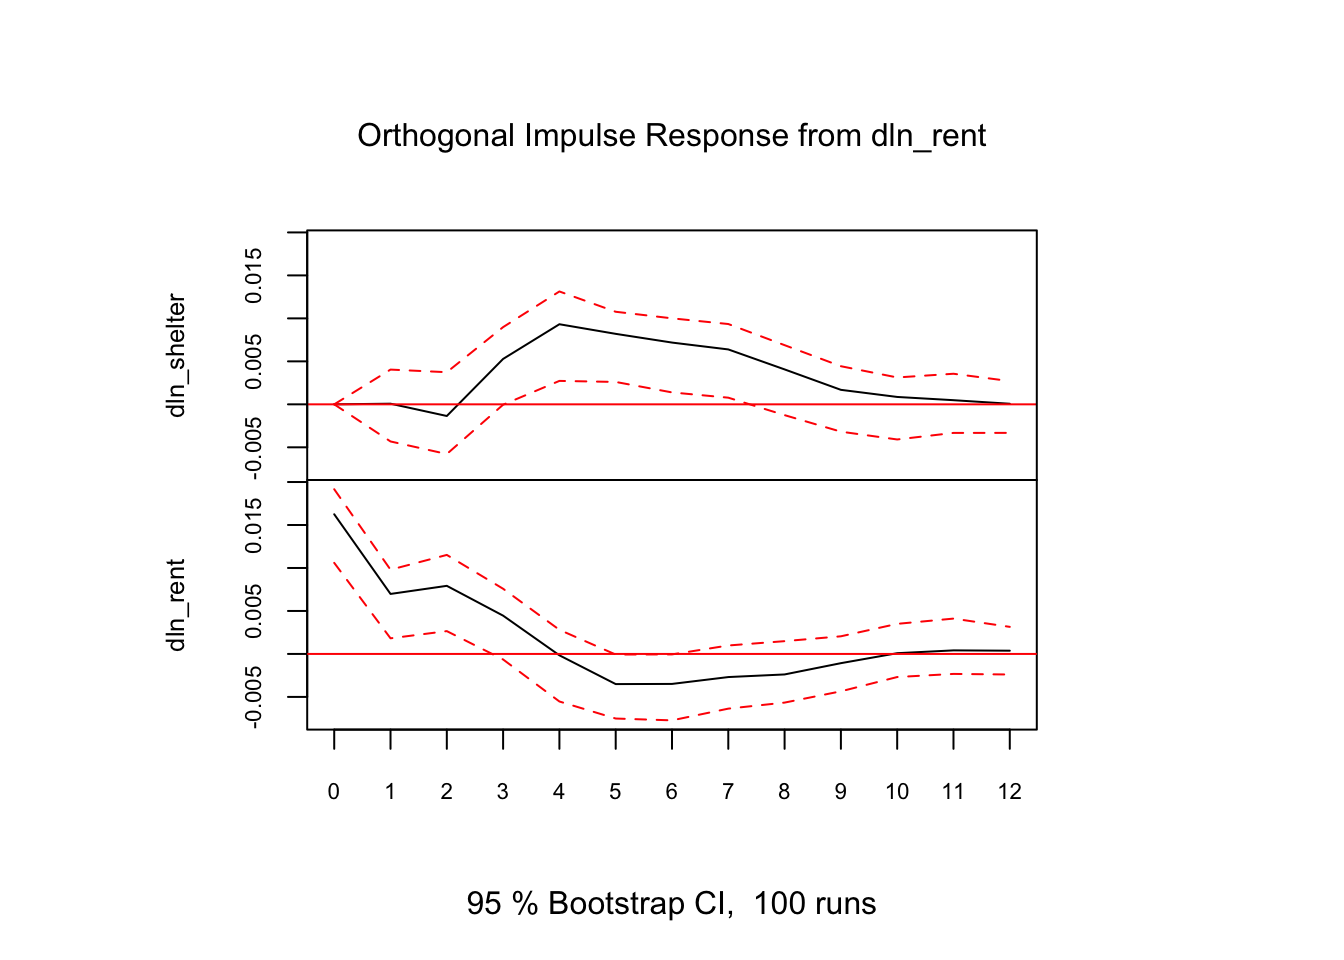
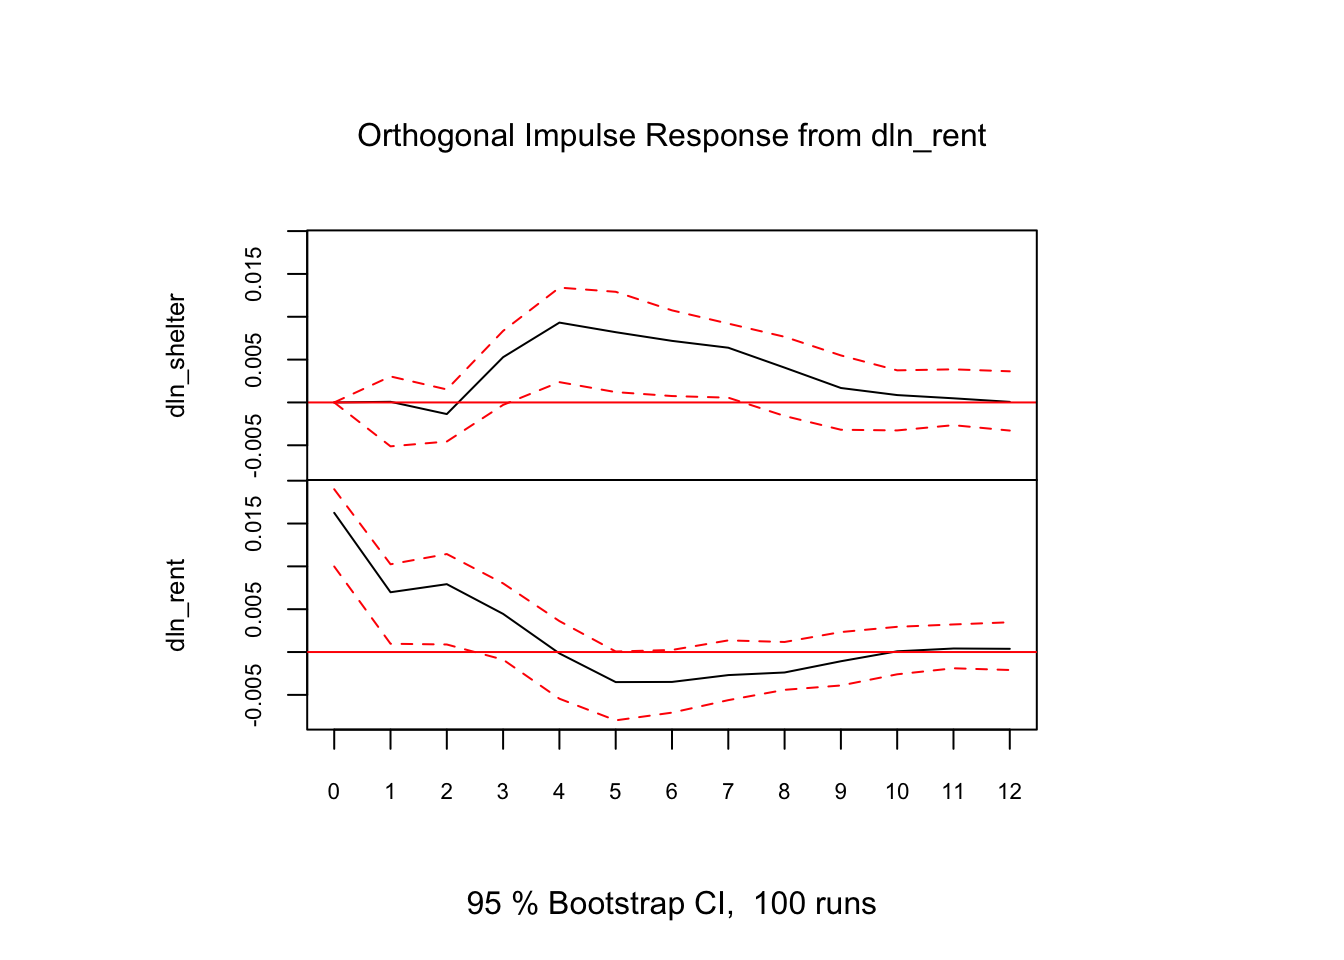
updates final

diff --git a/docs/projects/Refugees_EU.html b/docs/projects/Refugees_EU.html
@@ -700,8 +700,8 @@ Figure&nbsp;1
 
     <script>
 
-      function styleCell_rncptukpirzeetu41rbu(i, j, css_id) {
-          var table = document.getElementById("tinytable_rncptukpirzeetu41rbu");
+      function styleCell_ql58ar1mx5f0ps8pwl12(i, j, css_id) {
+          var table = document.getElementById("tinytable_ql58ar1mx5f0ps8pwl12");
           var cell = table.querySelector(`[data-row="${i}"][data-col="${j}"]`);
           if (cell) {
               console.log(`Styling cell at (${i}, ${j}) with class ${css_id}`);
@@ -710,8 +710,8 @@ Figure&nbsp;1
               console.warn(`Cell at (${i}, ${j}) not found.`);
           }
       }
-      function spanCell_rncptukpirzeetu41rbu(i, j, rowspan, colspan) {
-        var table = document.getElementById("tinytable_rncptukpirzeetu41rbu");
+      function spanCell_ql58ar1mx5f0ps8pwl12(i, j, rowspan, colspan) {
+        var table = document.getElementById("tinytable_ql58ar1mx5f0ps8pwl12");
         const targetCell = table.querySelector(`[data-row="${i}"][data-col="${j}"]`);
         if (!targetCell) {
           console.warn(`Cell at (${i}, ${j}) not found.`);
@@ -742,20 +742,20 @@ Figure&nbsp;1
       window.addEventListener('load', function () {
           var cellsToStyle = [
             // tinytable style arrays after
-          { positions: [ { i: '9', j: 1 }, { i: '9', j: 2 },  ], css_id: 'tinytable_css_v0vmxwu4i3xxz8ekekdn',}, 
-          { positions: [ { i: '6', j: 2 }, { i: '6', j: 1 },  ], css_id: 'tinytable_css_zprc3wvhz01k43tq2fd5',}, 
-          { positions: [ { i: '1', j: 1 }, { i: '3', j: 1 }, { i: '4', j: 1 }, { i: '5', j: 1 }, { i: '2', j: 1 }, { i: '7', j: 1 }, { i: '8', j: 1 }, { i: '3', j: 2 }, { i: '4', j: 2 }, { i: '1', j: 2 }, { i: '2', j: 2 }, { i: '7', j: 2 }, { i: '8', j: 2 }, { i: '5', j: 2 },  ], css_id: 'tinytable_css_kr6yfmrb4j38mwqssyhp',}, 
-          { positions: [ { i: '0', j: 1 }, { i: '0', j: 2 },  ], css_id: 'tinytable_css_i2psnrf6deqhmmdkt6bw',}, 
-          { positions: [ { i: '9', j: 0 },  ], css_id: 'tinytable_css_a5hgd34dq90ipjwg8a5z',}, 
-          { positions: [ { i: '6', j: 0 },  ], css_id: 'tinytable_css_u4zx0ooemd39qoufx86i',}, 
-          { positions: [ { i: '1', j: 0 }, { i: '2', j: 0 }, { i: '3', j: 0 }, { i: '4', j: 0 }, { i: '5', j: 0 }, { i: '7', j: 0 }, { i: '8', j: 0 },  ], css_id: 'tinytable_css_7zvpbzf2ucp6t5y9hp7d',}, 
-          { positions: [ { i: '0', j: 0 },  ], css_id: 'tinytable_css_4h0qsemu52zn0v0puqo8',}, 
+          { positions: [ { i: '9', j: 1 }, { i: '9', j: 2 },  ], css_id: 'tinytable_css_4vr4ohxfvz3l86p5snyz',}, 
+          { positions: [ { i: '6', j: 2 }, { i: '6', j: 1 },  ], css_id: 'tinytable_css_5qpwkac657jooq2ddzzr',}, 
+          { positions: [ { i: '1', j: 1 }, { i: '3', j: 1 }, { i: '4', j: 1 }, { i: '5', j: 1 }, { i: '2', j: 1 }, { i: '7', j: 1 }, { i: '8', j: 1 }, { i: '3', j: 2 }, { i: '4', j: 2 }, { i: '1', j: 2 }, { i: '2', j: 2 }, { i: '7', j: 2 }, { i: '8', j: 2 }, { i: '5', j: 2 },  ], css_id: 'tinytable_css_m399x1x0e2v7higdvbsx',}, 
+          { positions: [ { i: '0', j: 1 }, { i: '0', j: 2 },  ], css_id: 'tinytable_css_wfaswhi3n5sg1ppjmbgn',}, 
+          { positions: [ { i: '9', j: 0 },  ], css_id: 'tinytable_css_hl0ldrqa21c5kfbcswh2',}, 
+          { positions: [ { i: '6', j: 0 },  ], css_id: 'tinytable_css_jvku61kjgdv4f8iw496t',}, 
+          { positions: [ { i: '1', j: 0 }, { i: '2', j: 0 }, { i: '3', j: 0 }, { i: '4', j: 0 }, { i: '5', j: 0 }, { i: '7', j: 0 }, { i: '8', j: 0 },  ], css_id: 'tinytable_css_84dw4qvsejad8w2i3bsl',}, 
+          { positions: [ { i: '0', j: 0 },  ], css_id: 'tinytable_css_ttk2145s1tq8qrfuej48',}, 
           ];
 
           // Loop over the arrays to style the cells
           cellsToStyle.forEach(function (group) {
               group.positions.forEach(function (cell) {
-                  styleCell_rncptukpirzeetu41rbu(cell.i, cell.j, group.css_id);
+                  styleCell_ql58ar1mx5f0ps8pwl12(cell.i, cell.j, group.css_id);
               });
           });
       });
@@ -763,17 +763,17 @@ Figure&nbsp;1
 
     <style>
       /* tinytable css entries after */
-      .table td.tinytable_css_v0vmxwu4i3xxz8ekekdn, .table th.tinytable_css_v0vmxwu4i3xxz8ekekdn { text-align: center; border-bottom: solid #d3d8dc 0.1em; }
-      .table td.tinytable_css_zprc3wvhz01k43tq2fd5, .table th.tinytable_css_zprc3wvhz01k43tq2fd5 { text-align: center; border-bottom: solid black 0.05em; }
-      .table td.tinytable_css_kr6yfmrb4j38mwqssyhp, .table th.tinytable_css_kr6yfmrb4j38mwqssyhp { text-align: center; }
-      .table td.tinytable_css_i2psnrf6deqhmmdkt6bw, .table th.tinytable_css_i2psnrf6deqhmmdkt6bw { text-align: center; border-top: solid #d3d8dc 0.1em; border-bottom: solid #d3d8dc 0.05em; }
-      .table td.tinytable_css_a5hgd34dq90ipjwg8a5z, .table th.tinytable_css_a5hgd34dq90ipjwg8a5z { text-align: left; border-bottom: solid #d3d8dc 0.1em; }
-      .table td.tinytable_css_u4zx0ooemd39qoufx86i, .table th.tinytable_css_u4zx0ooemd39qoufx86i { text-align: left; border-bottom: solid black 0.05em; }
-      .table td.tinytable_css_7zvpbzf2ucp6t5y9hp7d, .table th.tinytable_css_7zvpbzf2ucp6t5y9hp7d { text-align: left; }
-      .table td.tinytable_css_4h0qsemu52zn0v0puqo8, .table th.tinytable_css_4h0qsemu52zn0v0puqo8 { text-align: left; border-top: solid #d3d8dc 0.1em; border-bottom: solid #d3d8dc 0.05em; }
+      .table td.tinytable_css_4vr4ohxfvz3l86p5snyz, .table th.tinytable_css_4vr4ohxfvz3l86p5snyz { text-align: center; border-bottom: solid #d3d8dc 0.1em; }
+      .table td.tinytable_css_5qpwkac657jooq2ddzzr, .table th.tinytable_css_5qpwkac657jooq2ddzzr { text-align: center; border-bottom: solid black 0.05em; }
+      .table td.tinytable_css_m399x1x0e2v7higdvbsx, .table th.tinytable_css_m399x1x0e2v7higdvbsx { text-align: center; }
+      .table td.tinytable_css_wfaswhi3n5sg1ppjmbgn, .table th.tinytable_css_wfaswhi3n5sg1ppjmbgn { text-align: center; border-top: solid #d3d8dc 0.1em; border-bottom: solid #d3d8dc 0.05em; }
+      .table td.tinytable_css_hl0ldrqa21c5kfbcswh2, .table th.tinytable_css_hl0ldrqa21c5kfbcswh2 { text-align: left; border-bottom: solid #d3d8dc 0.1em; }
+      .table td.tinytable_css_jvku61kjgdv4f8iw496t, .table th.tinytable_css_jvku61kjgdv4f8iw496t { text-align: left; border-bottom: solid black 0.05em; }
+      .table td.tinytable_css_84dw4qvsejad8w2i3bsl, .table th.tinytable_css_84dw4qvsejad8w2i3bsl { text-align: left; }
+      .table td.tinytable_css_ttk2145s1tq8qrfuej48, .table th.tinytable_css_ttk2145s1tq8qrfuej48 { text-align: left; border-top: solid #d3d8dc 0.1em; border-bottom: solid #d3d8dc 0.05em; }
     </style>
     <div class="container">
-      <table class="table table-borderless" id="tinytable_rncptukpirzeetu41rbu" style="width: auto; margin-left: auto; margin-right: auto;" data-quarto-disable-processing="true">
+      <table class="table table-borderless" id="tinytable_ql58ar1mx5f0ps8pwl12" style="width: auto; margin-left: auto; margin-right: auto;" data-quarto-disable-processing="true">
         <thead>
         
               <tr>
